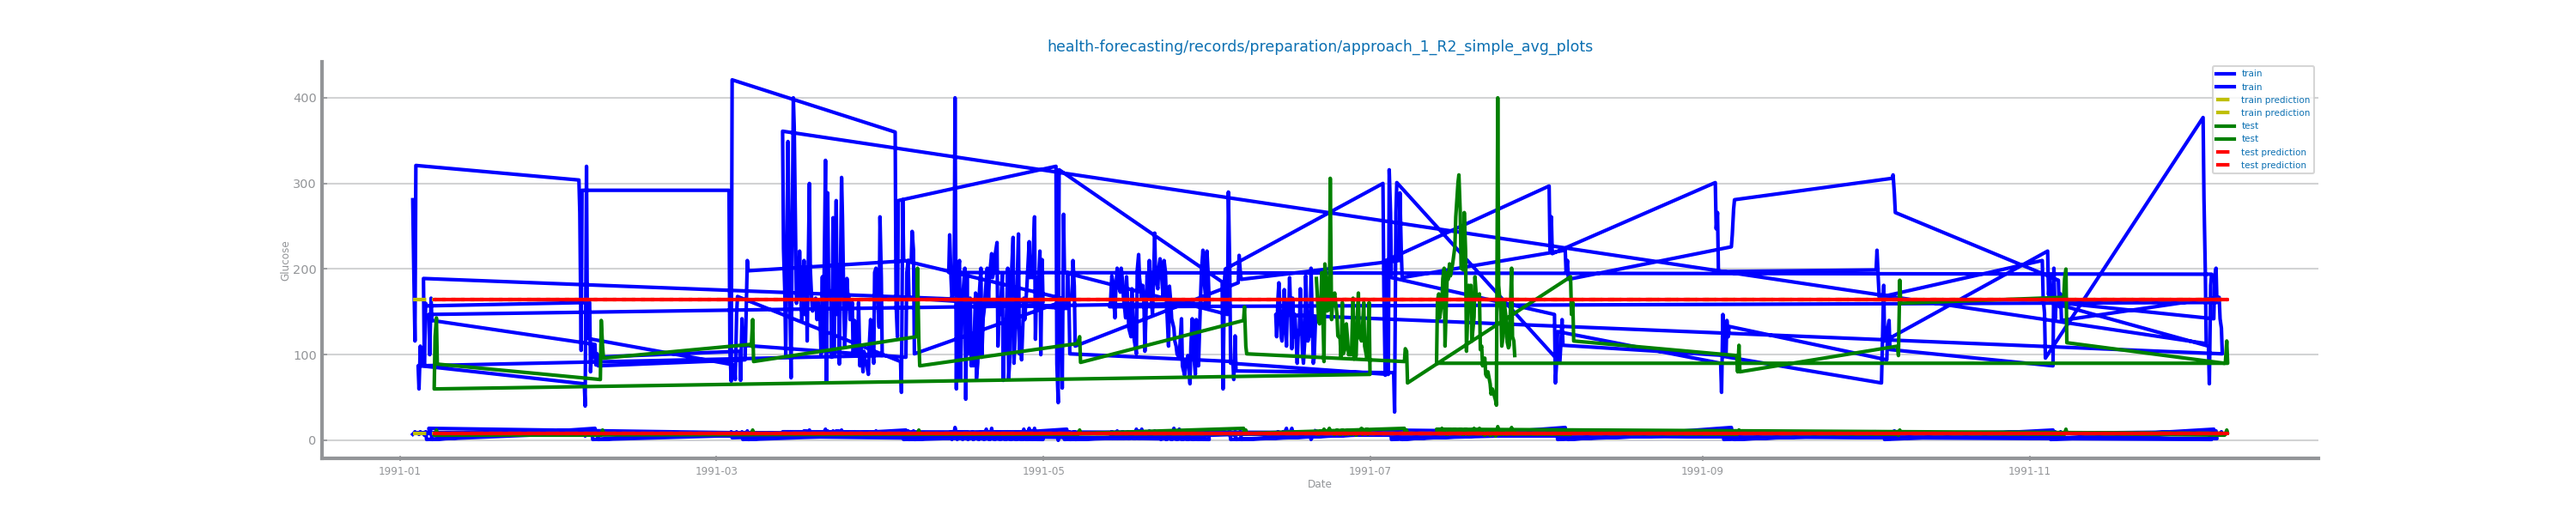
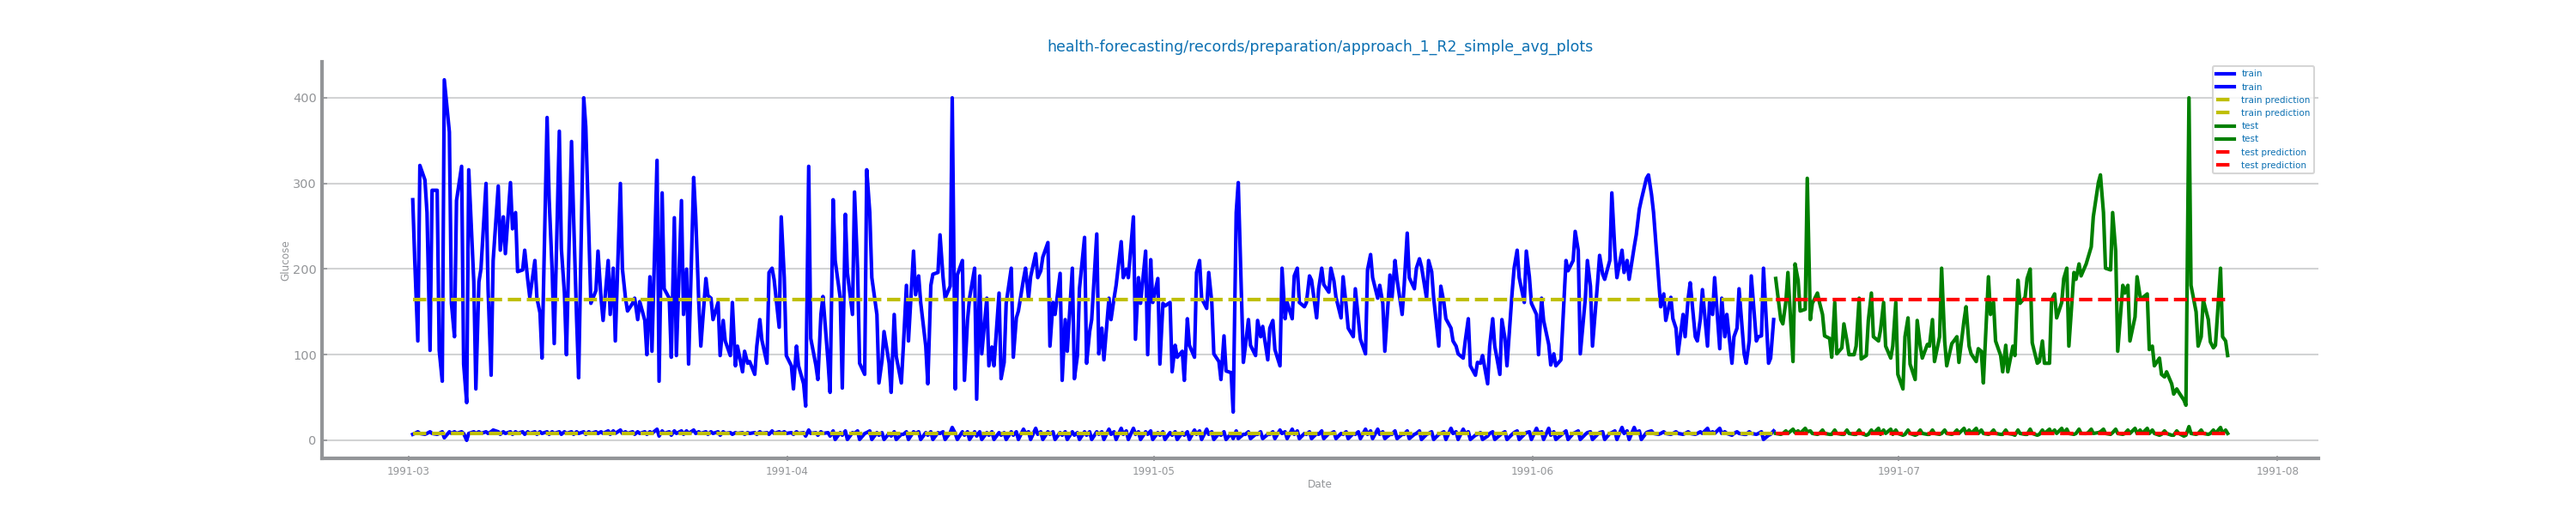
Fixed dates and done MVI

diff --git a/health-forecasting/src/preparation/mvi_imputation.py b/health-forecasting/src/preparation/mvi_imputation.py
@@ -23,6 +23,12 @@ class MVImputation:
 
         self.data: pd.DataFrame = data
 
+    def explore_mv_imputation(self):
+        self.approach_1()
+        self.data = pd.read_csv('health-forecasting/resources/data/glucose.csv', index_col='Date', sep=',', decimal='.', parse_dates=True, infer_datetime_format=True, dayfirst=True)
+        self.approach_2()
+        self.data = pd.read_csv('health-forecasting/resources/data/glucose.csv', index_col='Date', sep=',', decimal='.', parse_dates=True, infer_datetime_format=True, dayfirst=True)
+
     def compute_mv_imputation(self, approach) -> pd.DataFrame:
         if approach == "1":
             return self.approach_1_compute()
@@ -37,24 +43,14 @@ class MVImputation:
         - Evaluate with Rolling Mean
         """
 
-        date_var = ["Date"]
-        other_vars = ["Insulin", "Glucose"]
-
         imputer = SimpleImputer(strategy='mean', missing_values=np.nan, copy=True)
-        temp_df = pd.DataFrame(imputer.fit_transform(self.data[other_vars]), columns=other_vars)
-
-        self.data = pd.concat([self.data[date_var], temp_df], axis=1)
-        self.data.index = self.data.index
-
-        self.data.to_csv(f'health-forecasting/resources/data/data_mvi_approach1.csv', index=False)
-        self.data = pd.read_csv(f'health-forecasting/resources/data/data_mvi_approach1.csv', index_col="Date", sep=',', decimal='.', parse_dates=True, infer_datetime_format=True)
-
+        temp_df = pd.DataFrame(imputer.fit_transform(self.data), columns=["Insulin", "Glucose"])
+        temp_df.index = self.data.index
+        self.data = temp_df
         self.simple_average("approach_1")
+        self.rolling_mean("approach_1")
 
-
-        return self.data
-
-    def approach_2(self) -> pd.DataFrame:
+    def approach_2(self):
         """
         - Drop all records with missing values
 
@@ -63,13 +59,8 @@ class MVImputation:
         """
 
         self.drop_records()
-
-        self.data.to_csv(f'health-forecasting/resources/data/data_mvi_approach2.csv', index=False)
-        self.data = pd.read_csv(f'health-forecasting/resources/data/data_mvi_approach2.csv', index_col="Date", sep=',', decimal='.', parse_dates=True, infer_datetime_format=True)
-
         self.simple_average("approach_2")
-
-        return self.data
+        self.rolling_mean("approach_2")
 
     def approach_1_compute(self) -> pd.DataFrame:
         """
@@ -78,6 +69,12 @@ class MVImputation:
         - Evaluate with Simple Average
         - Evaluate with Rolling Mean
         """
+        imputer = SimpleImputer(strategy='mean', missing_values=np.nan, copy=True)
+        temp_df = pd.DataFrame(imputer.fit_transform(self.data), columns=["Insulin", "Glucose"])
+        temp_df.index = self.data.index
+
+        self.data = temp_df
+        #self.data.to_csv(f'health-forecasting/resources/data/data_mvi_approach1.csv', index=True)
 
     def approach_2_compute(self) -> pd.DataFrame:
         """
@@ -86,6 +83,9 @@ class MVImputation:
         - Evaluate with Simple Average
         - Evaluate with Rolling Mean
         """
+
+        self.drop_records()
+        #self.data.to_csv(f'health-forecasting/resources/data/data_mvi_approach2.csv', index=True)
 
     def drop_column(self, column_name: str):
         self.data = self.data.drop(columns=[column_name])	
@@ -116,10 +116,7 @@ class MVImputation:
 
     def simple_average(self, approach):
 
-        print(self.data.head())
-
         train, test = self.split_dataframe(trn_pct=0.75)
-        flag_pct = False
         eval_results = {}
 
         measure = "R2"
@@ -137,6 +134,26 @@ class MVImputation:
         self.plot_forecasting_series(train, test, prd_trn, prd_tst, f'health-forecasting/records/preparation/{approach}_{measure}_simple_avg_plots', x_label="Date", y_label="Glucose")
         plt.savefig(f'health-forecasting/records/preparation/{approach}_{measure}_simple_avg_plots.png')
 
+    def rolling_mean(self, approach: str) -> None:
+
+        train, test = self.split_dataframe(trn_pct=0.75)
+        eval_results = {}
+
+        fr_mod = RollingMeanRegressor()
+        fr_mod.fit(train)
+        prd_trn = fr_mod.predict(train)
+        prd_tst = fr_mod.predict(test)
+
+        measure = "R2"
+        eval_results['RollingMean'] = PREDICTION_MEASURES[measure](test.values, prd_tst)
+        print(eval_results)
+        
+        plot_evaluation_results(train.values, prd_trn, test.values, prd_tst, f'health-forecasting/records/preparation/{approach}_{measure}_rolling_mean_eval')
+        plt.savefig(f'health-forecasting/records/preparation/{approach}_{measure}_rolling_mean_eval.png')
+        self.plot_forecasting_series(train, test, prd_trn, prd_tst, f'health-forecasting/records/preparation/{approach}_{measure}_rolling_mean_plots', x_label="Date", y_label="Glucose")
+        plt.savefig(f'health-forecasting/records/preparation/{approach}_{measure}_rolling_mean_plots.png')
+
+
 class SimpleAvgRegressor (RegressorMixin):
     def __init__(self):
         super().__init__()
@@ -147,4 +164,19 @@ class SimpleAvgRegressor (RegressorMixin):
 
     def predict(self, X: pd.DataFrame):
         prd =  len(X) * [self.mean]
+        return prd
+
+
+class RollingMeanRegressor (RegressorMixin):
+    def __init__(self, win: int = 3):
+        super().__init__()
+        self.win_size = win
+
+    def fit(self, X: pd.DataFrame):
+        None
+
+    def predict(self, X: pd.DataFrame):
+        prd = len(X) * [0]
+        for i in range(len(X)):
+            prd[i] = X[max(0, i-self.win_size+1):i+1].mean()
         return prd

diff --git a/health-forecasting/src/main.py b/health-forecasting/src/main.py
@@ -13,22 +13,22 @@ INPUT_FILE_PATH = 'health-forecasting/resources/data/glucose.csv'
 if __name__ == "__main__":
 
     # ----------------------------- 1º Phase -> Data profiling ----------------------------- #
-    data = read_csv(INPUT_FILE_PATH, index_col='Date', sep=',', decimal='.', parse_dates=True, infer_datetime_format=True)
+    data = read_csv(INPUT_FILE_PATH, index_col='Date', sep=',', decimal='.', parse_dates=True, infer_datetime_format=True, dayfirst=True)
 
     #  profiler = Profiler(data)
     #  profiler.explore_count_data_types()
 
     # ----------------------------- 2º Phase -> Data preparation ----------------------------- #
-    # mvi = MVImputation(data)
-    # data = mvi.approach_1()
-    # data = mvi.approach_2()
+    mvi = MVImputation(data)
+    mvi.explore_mv_imputation()
+    data = mvi.compute_mv_imputation("approach_2")
 
     ## Does it even make sense to apply scaling?
     # scaling = Scaling(data)
     # data = scaling.explore_scaling()
     
     # TODO: @Carlos -> After solving MVI, remove the following line:
-    data = data.dropna(inplace=False)
+    # data = data.dropna(inplace=False)
 
-    differentiation = Differentiation(data)
-    data = differentiation.explore_differentiation()
+    # differentiation = Differentiation(data)
+    # data = differentiation.explore_differentiation()
